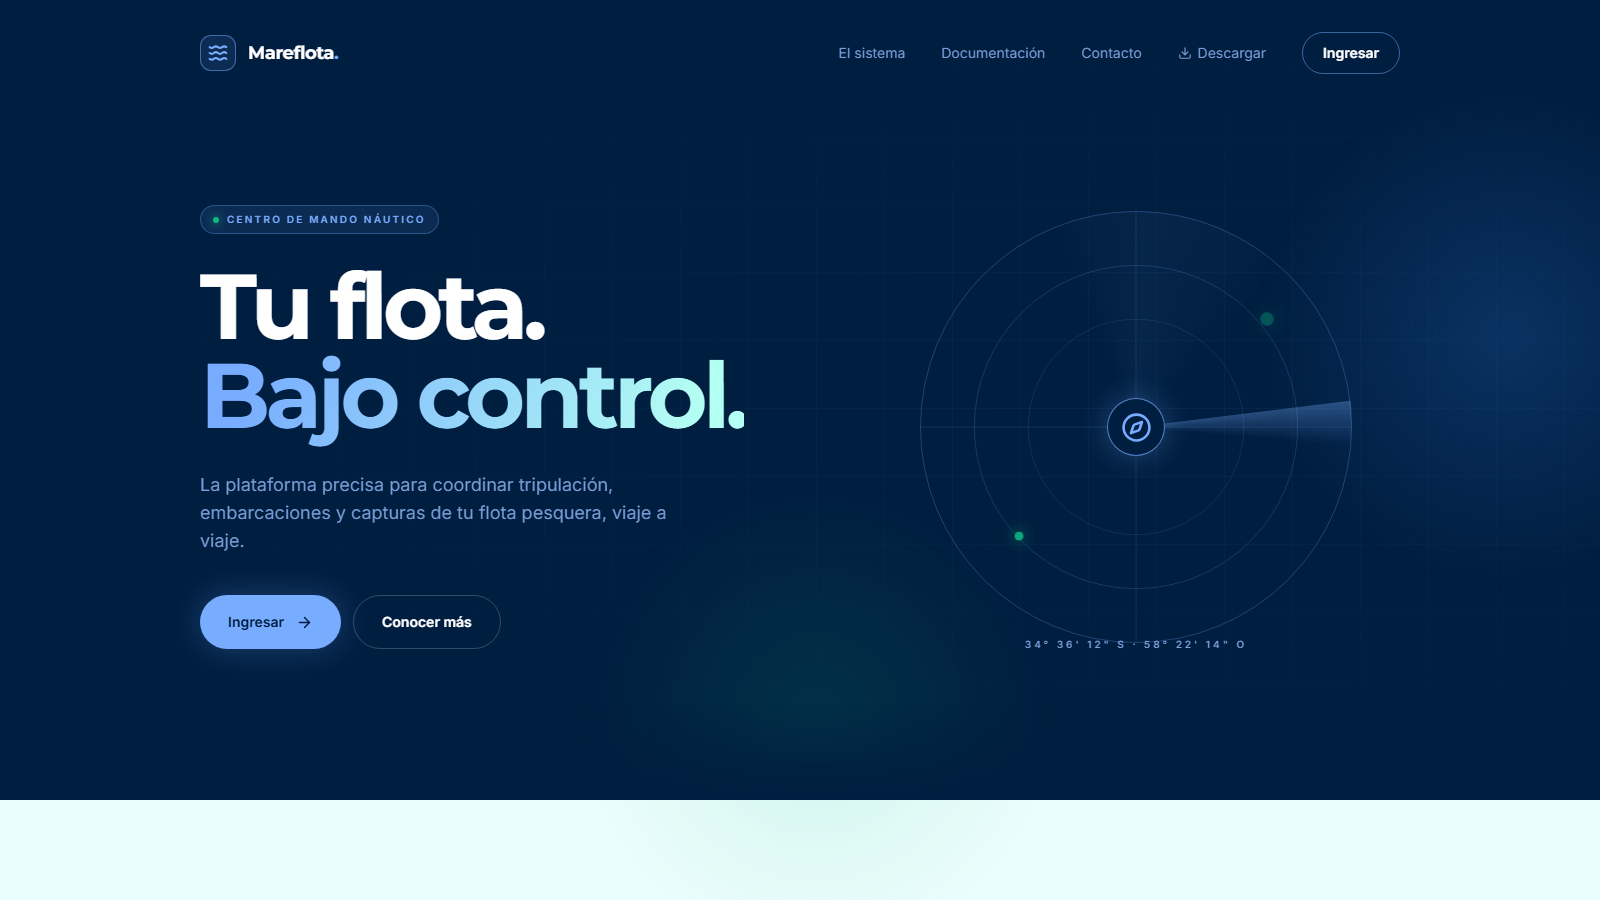
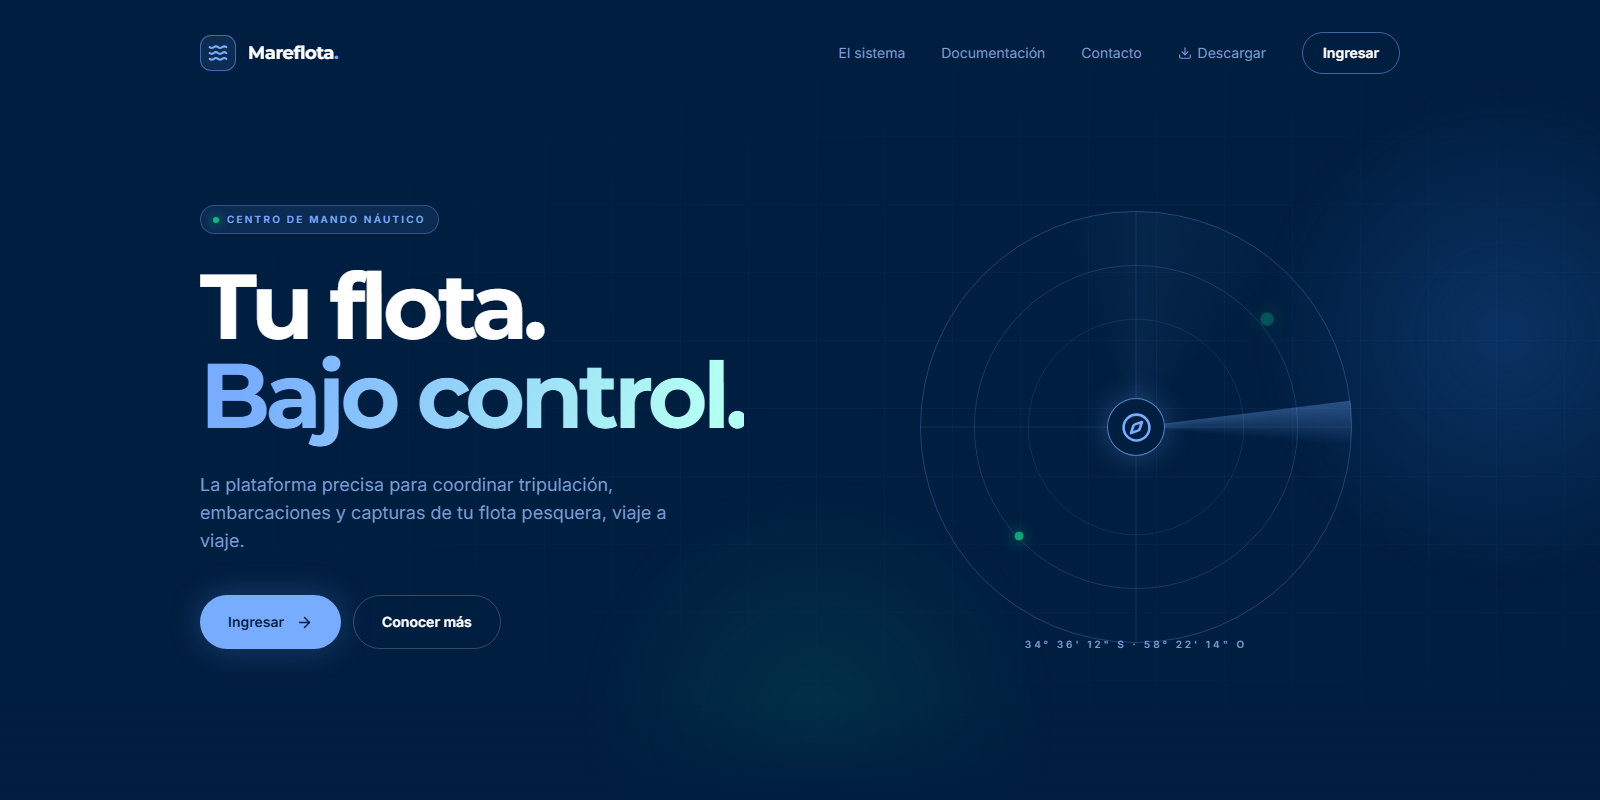
Ajustes de la revisión visual de las áreas
- Recortar la captura de Mareflota para que no asome la sección siguiente
- Acortar el rótulo de la portada de software para que entre en una línea
- Alinear el link Ver más al fondo de las tarjetas de áreas
- Acortar el primer punto de la ficha de Mareflota

diff --git a/src/app/components/Areas.module.css b/src/app/components/Areas.module.css
@@ -14,8 +14,9 @@
   border-radius: var(--radius-lg);
   background: var(--paper);
   box-shadow: var(--shadow-sm);
-  display: grid;
-  align-content: start;
+  display: flex;
+  flex-direction: column;
+  align-items: flex-start;
   gap: 12px;
   transition:
     transform 0.3s var(--ease),
@@ -72,8 +73,10 @@
   font-weight: 600;
 }
 
+/* Al fondo de la tarjeta, para que quede alineado entre las dos aunque el texto mida distinto */
 .more {
-  margin-top: 12px;
+  margin-top: auto;
+  padding-top: 12px;
   display: inline-flex;
   align-items: center;
   gap: 8px;

diff --git a/src/app/proyectos/mareflota/page.tsx b/src/app/proyectos/mareflota/page.tsx
@@ -16,7 +16,7 @@ export const metadata: Metadata = {
 };
 
 const highlights = [
-  { title: "Tripulación y documentos", text: "Roles a bordo y alertas antes de que venza una libreta o un certificado." },
+  { title: "Tripulación", text: "Roles a bordo y alertas antes de que venza un documento." },
   { title: "Viajes", text: "Dotación, zarpe, regreso y captura por especie en cada viaje." },
   { title: "Estadísticas", text: "Capturas por barco, especie y mes para decidir con datos." },
 ];

diff --git a/src/app/components/projectMedia.ts b/src/app/components/projectMedia.ts
@@ -3,7 +3,7 @@ const sizes: Record<string, { width: number; height: number }> = {
   "/agrovet-preview-actual.png": { width: 1899, height: 884 },
   "/pag-taller-preview.png": { width: 1366, height: 900 },
   "/hnv-preview.png": { width: 1897, height: 911 },
-  "/mareflota-preview.png": { width: 1600, height: 900 },
+  "/mareflota-preview.png": { width: 1600, height: 800 },
   "/forza-preview.png": { width: 738, height: 1505 },
   "/forza-pdf-preview.png": { width: 700, height: 982 },
 };

diff --git a/src/app/content.ts b/src/app/content.ts
@@ -85,7 +85,7 @@ export const areas: Area[] = [
     icon: LayoutDashboard,
     summary: "Sistemas de gestión, automatizaciones e integraciones hechos para tu operación.",
     hero: {
-      eyebrow: "Sistemas · Automatizaciones · Integraciones",
+      eyebrow: "Sistemas · Automatizaciones",
       title: "Software a medida para tu empresa",
       copy: "Sistemas de gestión y automatizaciones hechos para tu operación, para ordenar el trabajo y decidir con datos.",
     },
